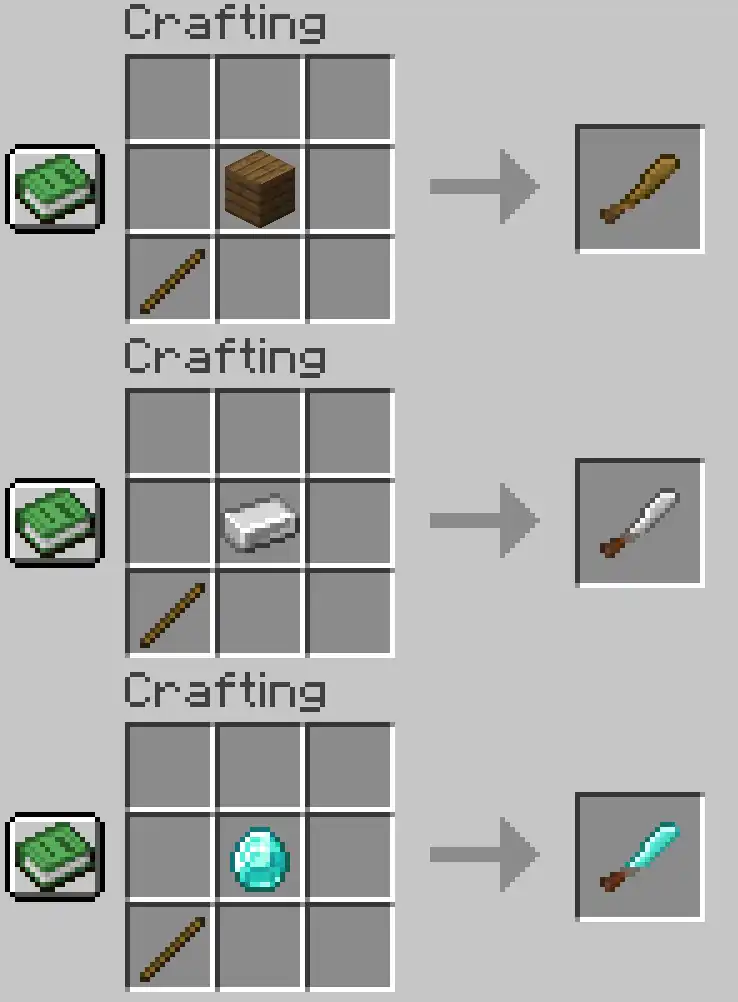
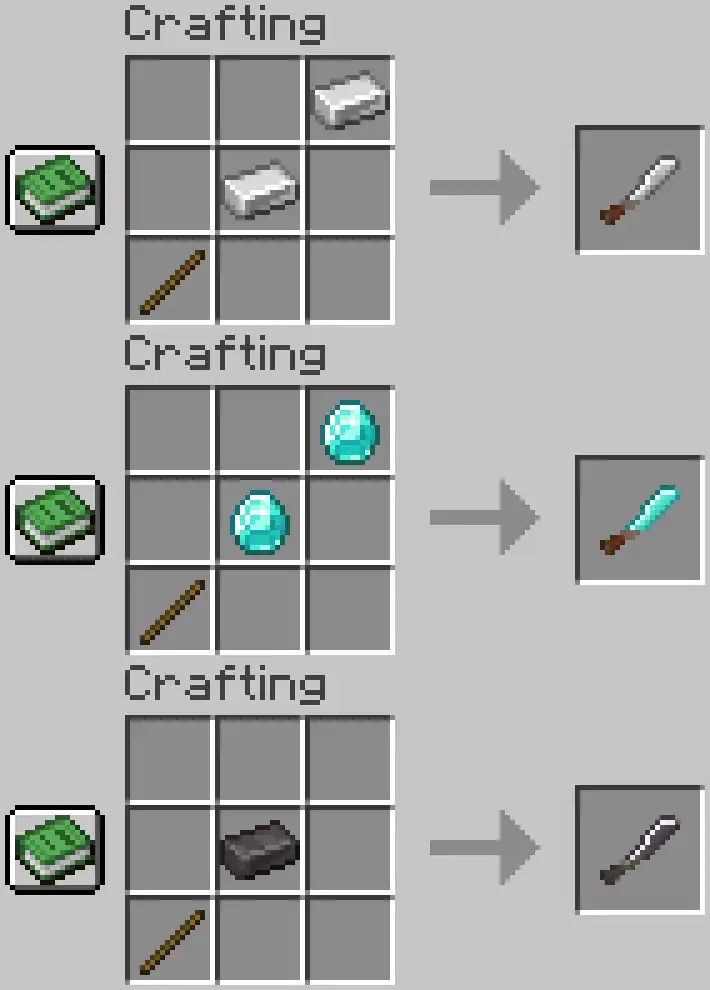
Changed Recipe
Made it from 2x2 to 3x3 for reasonable material usage

Move Known Bug in ReadMe

diff --git a/ReadMe.md b/ReadMe.md
@@ -8,21 +8,14 @@ A Minecraft data pack & resource pack by **ProcStack** adding the **Bolo**
 
 
 ## Features
-
 Slightly weaker but faster than a sword
 <br/>Slightly slower chopping wood than an axe
 
 - **Bolo Types**:
   - Wood, Stone, Copper, Gold, Iron, Diamond, & Netherite
-- 1 Stick (Lower Left) & 1 Material (Upper Right); 2x2
 - Custom crafting and smithing recipes
 - Add both Sword & Axe Enchantments
 
-
-**Known Bug** -
-<br/> Using a Diamond Bolo in a Smithing Table outputs a Diamond Bolo, not a Netherite Bolo.
-<br/>Use a netherite ingot in the crafting table like any other material type.
-<br/>&nbsp;&nbsp; *To be fixed shortly!*
 
 ## Install
 Download the repo's zip by clicking to the `Code` button in the upper right, click `Download ZIP`
@@ -34,6 +27,11 @@ Load your world
 
 Then just test the crafting recipe!
 
+
+**Known Bug** -
+<br/> Using a Diamond Bolo in a Smithing Table outputs a Diamond Bolo, not a Netherite Bolo.
+<br/>Use a netherite ingot in the crafting table.
+<br/>&nbsp;&nbsp; *To be fixed shortly!*
 
 <p align="center">
   -Sword & Axe Enchantments-
